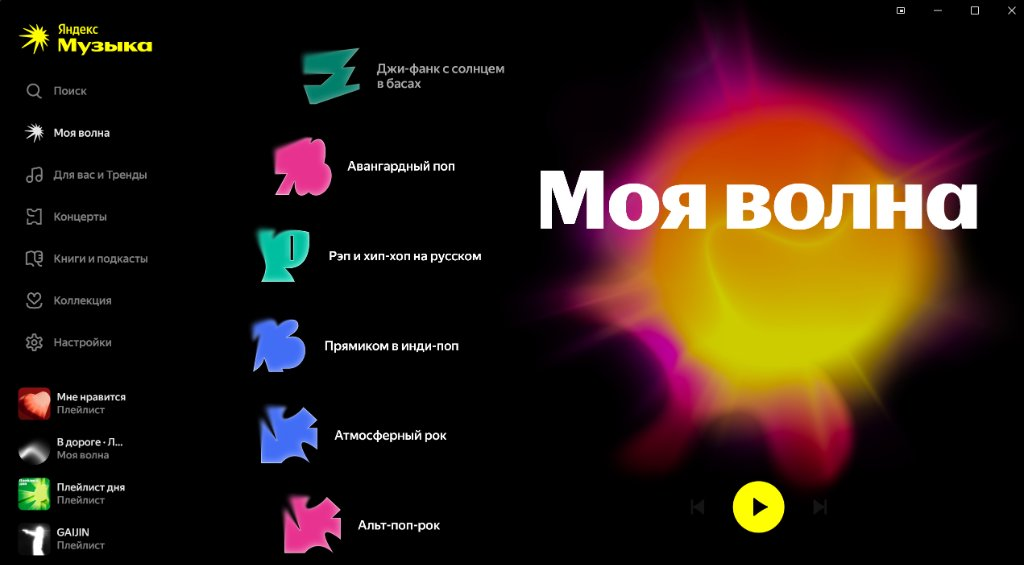
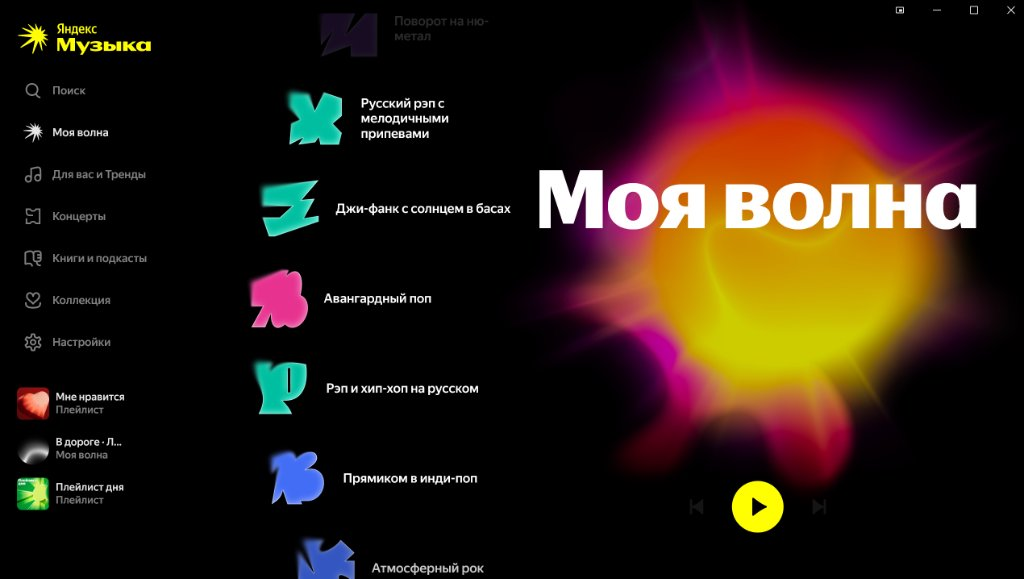
docs: refine README branding, preview screenshot and remove audio quality badge from Discord

diff --git a/src/platform/discord.rs b/src/platform/discord.rs
@@ -91,10 +91,8 @@ impl DiscordRpcService {
         }
     }
 
-    /// Build Activity payload for Discord RPC
+    /// Build Activity payload for Discord RPC without sound quality badge
     pub fn build_activity<'a>(track: &'a DiscordTrackActivity) -> activity::Activity<'a> {
-        let (badge_icon, badge_text) = Self::quality_badge_asset(track.quality);
-
         let cover_key = track
             .cover_url
             .as_deref()
@@ -102,9 +100,7 @@ impl DiscordRpcService {
 
         let assets = activity::Assets::new()
             .large_image(cover_key)
-            .large_text(&track.title)
-            .small_image(badge_icon)
-            .small_text(badge_text);
+            .large_text(&track.title);
 
         let mut act = activity::Activity::new()
             .details(&track.title)

diff --git a/README.md b/README.md
@@ -2,7 +2,7 @@
 
 <div align="center">
 
-<img src="docs/images/banner.png" alt="ya.music-pro logo" width="360" />
+<img src="docs/images/logo.svg" alt="ya.music-pro logo" width="128" />
 
 ### Нативный аудиофильский десктопный плеер для Яндекс Музыки на Rust и Slint
 
@@ -22,7 +22,7 @@
 
 **ya.music-pro** — независимый легковесный десктопный плеер для сервиса «Яндекс Музыка». Проект ориентирован на максимальное качество звучания, низкие задержки, мгновенный отклик интерфейса и бережное отношение к системным ресурсам.
 
-В отличие от стандартных решений на базе браузерных веб-оболочек, клиент скомпилирован в единый компактный нативный бинарный файл без Chromium и Node.js.
+В отличие от стандартных решений на базе браузерных веб-оболочек, клиент скомпилирован в компактный нативный бинарный файл без Chromium и Node.js.
 
 <div align="center">
   <img src="docs/images/preview.jpg" alt="Интерфейс ya.music-pro" width="900" />
@@ -38,36 +38,36 @@
 | **Потребление ОЗУ** | 450 – 850+ МБ | **40 – 75 МБ** (~15–20 МБ в трее) |
 | **Время холодного запуска** | 3 – 6 секунд | **< 200 миллисекунд** |
 | **Вывод звука** | Windows Shared Audio (микшер OS) | **WASAPI Exclusive (Bit-Perfect без ресемплинга)** |
-| **Аудио-процессинг (DSP)** | Базовый фиксированный эквалайзер | **10-полосный biquad EQ, LUFS (EBU R128), Slowed+Reverb** |
-| **Интеграция с микрофоном / связью** | Отсутствует | **Smart Voice Ducking (автоприглушение при речи в Discord/Telegram)** |
-| **Discord Rich Presence** | Требуются сторонние скрипты | **Встроенный Rich Presence с бейджами качества (Lossless / Hi-Res)** |
+| **Аудио-процессинг (DSP)** | Базовый фиксированный эквалайзер | **10-полосный параметрический EQ с пресетами** |
+| **Discord Rich Presence** | Требуются сторонние скрипты | **Встроенный Rich Presence (трек, исполнитель, обложка)** |
 | **Сворачивание в трей** | Окно скрыто, браузер работает в фоне | **Ultra-light Headless Mode (полное освобождение ресурсов окна)** |
-| **Кэш и локальный экспорт** | Закрытый зашифрованный кэш | **LRU-кэш на SQLite, экспорт треков с ID3-тегами и текстом LRC** |
+| **Кэш и локальный экспорт** | Закрытый зашифрованный кэш | **LRU-кэш на SQLite, экспорт треков в FLAC с обложками** |
 | **Реклама и трекинг** | Встроенные промо-блоки и аналитика | **Полное отсутствие рекламы, телеметрии и трекеров** |
 
 ---
 
 ## Ключевые возможности
 
-- **Аудиофильский звуковой тракт:**
-  - Низкоуровневый вывод через CPAL с поддержкой режима WASAPI Exclusive (монопольный доступ к аудиоустройству).
-  - Бесшовное переключение между треками (Gapless playback) и плавный переход Equal-Power Crossfade.
-  - Аппаратная поддержка форматов FLAC (Lossless) и MP3/AAC/OGG через библиотеку Symphonia.
-  - Встроенный 10-полосный параметрический эквалайзер с сохранением профилей.
-  - Нормализация громкости треков по стандарту EBU R128 (LUFS).
-  - Режим пространственной обработки Slowed + Reverb (алгоритмы Rubato и Stereo Freeverb).
-
-- **Нативный интерфейс Slint:**
+- **Нативный интерфейс и навигация:**
   - Фирменная тёмная эстетика с акцентами в янтарно-оранжевых тонах.
-  - Полноценная «Моя волна» с интерактивным выбором настроения, языка и активности.
+  - Полноценная «Моя волна» с интерактивным выбором настроения, языка и характера музыки.
   - Разделы «Для вас и Тренды», «Концерты», «Книги и подкасты», «Коллекция» и быстрый доступ к «Настройкам» в боковом меню.
-  - Полноэкранный режим с караоке (синхронизированная прокрутка LRC из каталога и базы LRCLIB).
+  - Полноэкранный режим с караоке (синхронизированная прокрутка строк LRC).
 
-- **Системные интеграции Windows:**
-  - **Smart Voice Ducking:** фоновое отслеживание активности аудиосессий через `IAudioSessionManager2` и деликатное приглушение музыки во время звонков.
-  - **Discord Rich Presence:** отображение трека, исполнителя, прогресса и иконки стриминга в профиле Discord.
-  - **Глобальные горячие клавиши:** управление воспроизведением даже при работе в других окнах или играх.
-  - **Автоматические обновления:** проверка свежих версий напрямую из официального репозитория `yug33n/ya.music-pro`.
+- **Вкладка «Настройки» в приложении:**
+  - **Очистить память:** быстрая очистка кэшированных треков и обложек для освобождения места на диске.
+  - **Эквалайзер:** вызов модального окна 10-полосного эквалайзера с готовыми пресетами и плавной регулировкой.
+  - **Режим работы:** выбор между режимом «Плавный» (все анимации) и «Лёгкий» (без лишних эффектов для слабых ПК).
+  - **Логарифмическая громкость:** ровная регулировка громкости на слух с повышенной точностью на тихих уровнях.
+  - **Загрузка треков:** выбор локальной папки и переключатель «Скачивать в FLAC» (сохранение в lossless при наличии).
+  - **Меньше ИИ:** фильтрация сгенерированных нейросетями композиций в рекомендациях.
+  - **Статус в Discord:** тумблер трансляции текущего трека в ваш профиль Discord.
+  - **Запуск с Windows:** запуск плеера при старте системы сразу в фоновом режиме в системном трее.
+  - **Проверка обновлений:** фоновый опрос релизов на GitHub с уведомлением о новых версиях.
+
+- **Настройки звука и качества:**
+  - Переключение режимов качества аудиопотока: *Превосходное* (FLAC / Lossless), *Оптимальное* и *Экономичное*.
+  - Плавные переходы между композициями (Crossfade) и непрерывное воспроизведение (Gapless).
 
 ---
 
@@ -113,20 +113,9 @@ cargo build --release
 
 ---
 
-## Планы по развитию (Roadmap)
-
-- [ ] **ASIO Engine:** прямая поддержка профессиональных ASIO-драйверов для внешних ЦАП и студийных аудиокарт.
-- [ ] **Поддержка VST3 плагинов:** возможность подключения пользовательских аудиоэффектов и виртуальных процессоров.
-- [ ] **Скробблинг:** интеграция с сервисами Last.fm и ListenBrainz.
-- [ ] **Desktop Lyrics Overlay:** компактный плавающий оверлей с текстом поверх всех окон.
-- [ ] **Настраиваемые темы и визуализаторы:** выбор цветовых палитр интерфейса и реактивные шейдеры для «Моей волны».
-- [ ] **Кроссплатформенность:** официальная сборка под Linux (PipeWire / ALSA) и macOS (CoreAudio).
-
----
-
 ## English Summary
 
-**ya.music-pro** is an ultra-fast, native, audiophile desktop client for Yandex Music built in Rust and Slint GUI. It replaces heavy web wrappers with direct hardware audio rendering (WASAPI Exclusive Bit-Perfect), consumes only ~40–75 MB of RAM, starts in under 200 ms, and includes advanced DSP capabilities (10-band biquad EQ, LUFS normalization, voice ducking during Discord/Telegram calls, and Discord Rich Presence).
+**ya.music-pro** is an ultra-fast, native, audiophile desktop client for Yandex Music built in Rust and Slint GUI. It replaces heavy web wrappers with direct hardware audio rendering (WASAPI Exclusive Bit-Perfect), consumes only ~40–75 MB of RAM, starts in under 200 ms, and includes advanced DSP capabilities (10-band biquad EQ, logarithmic volume, and Discord Rich Presence).
 
 ---
 
